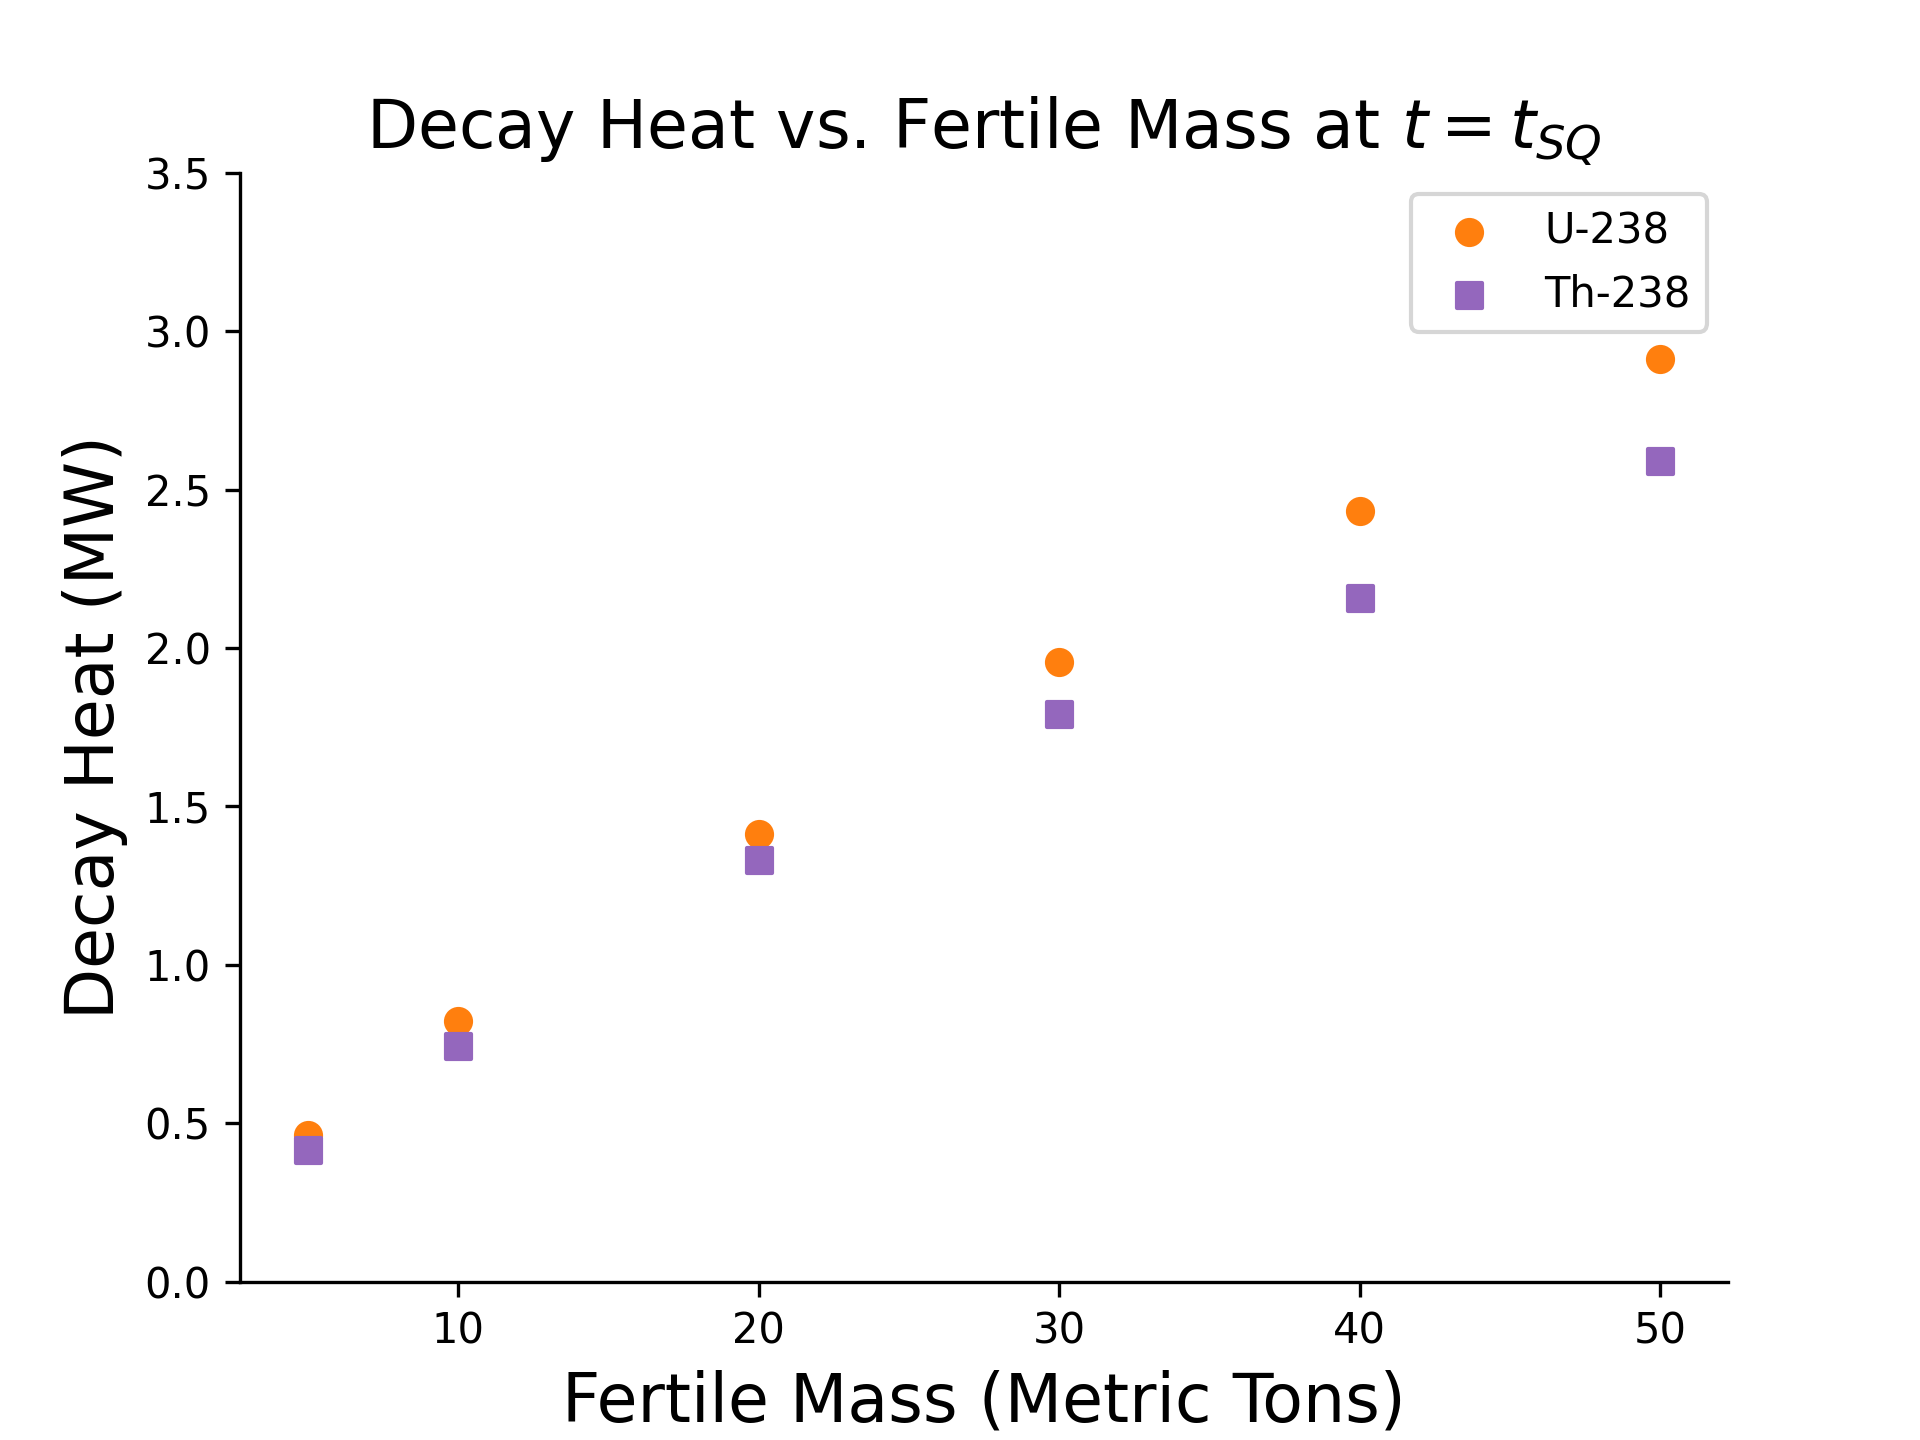
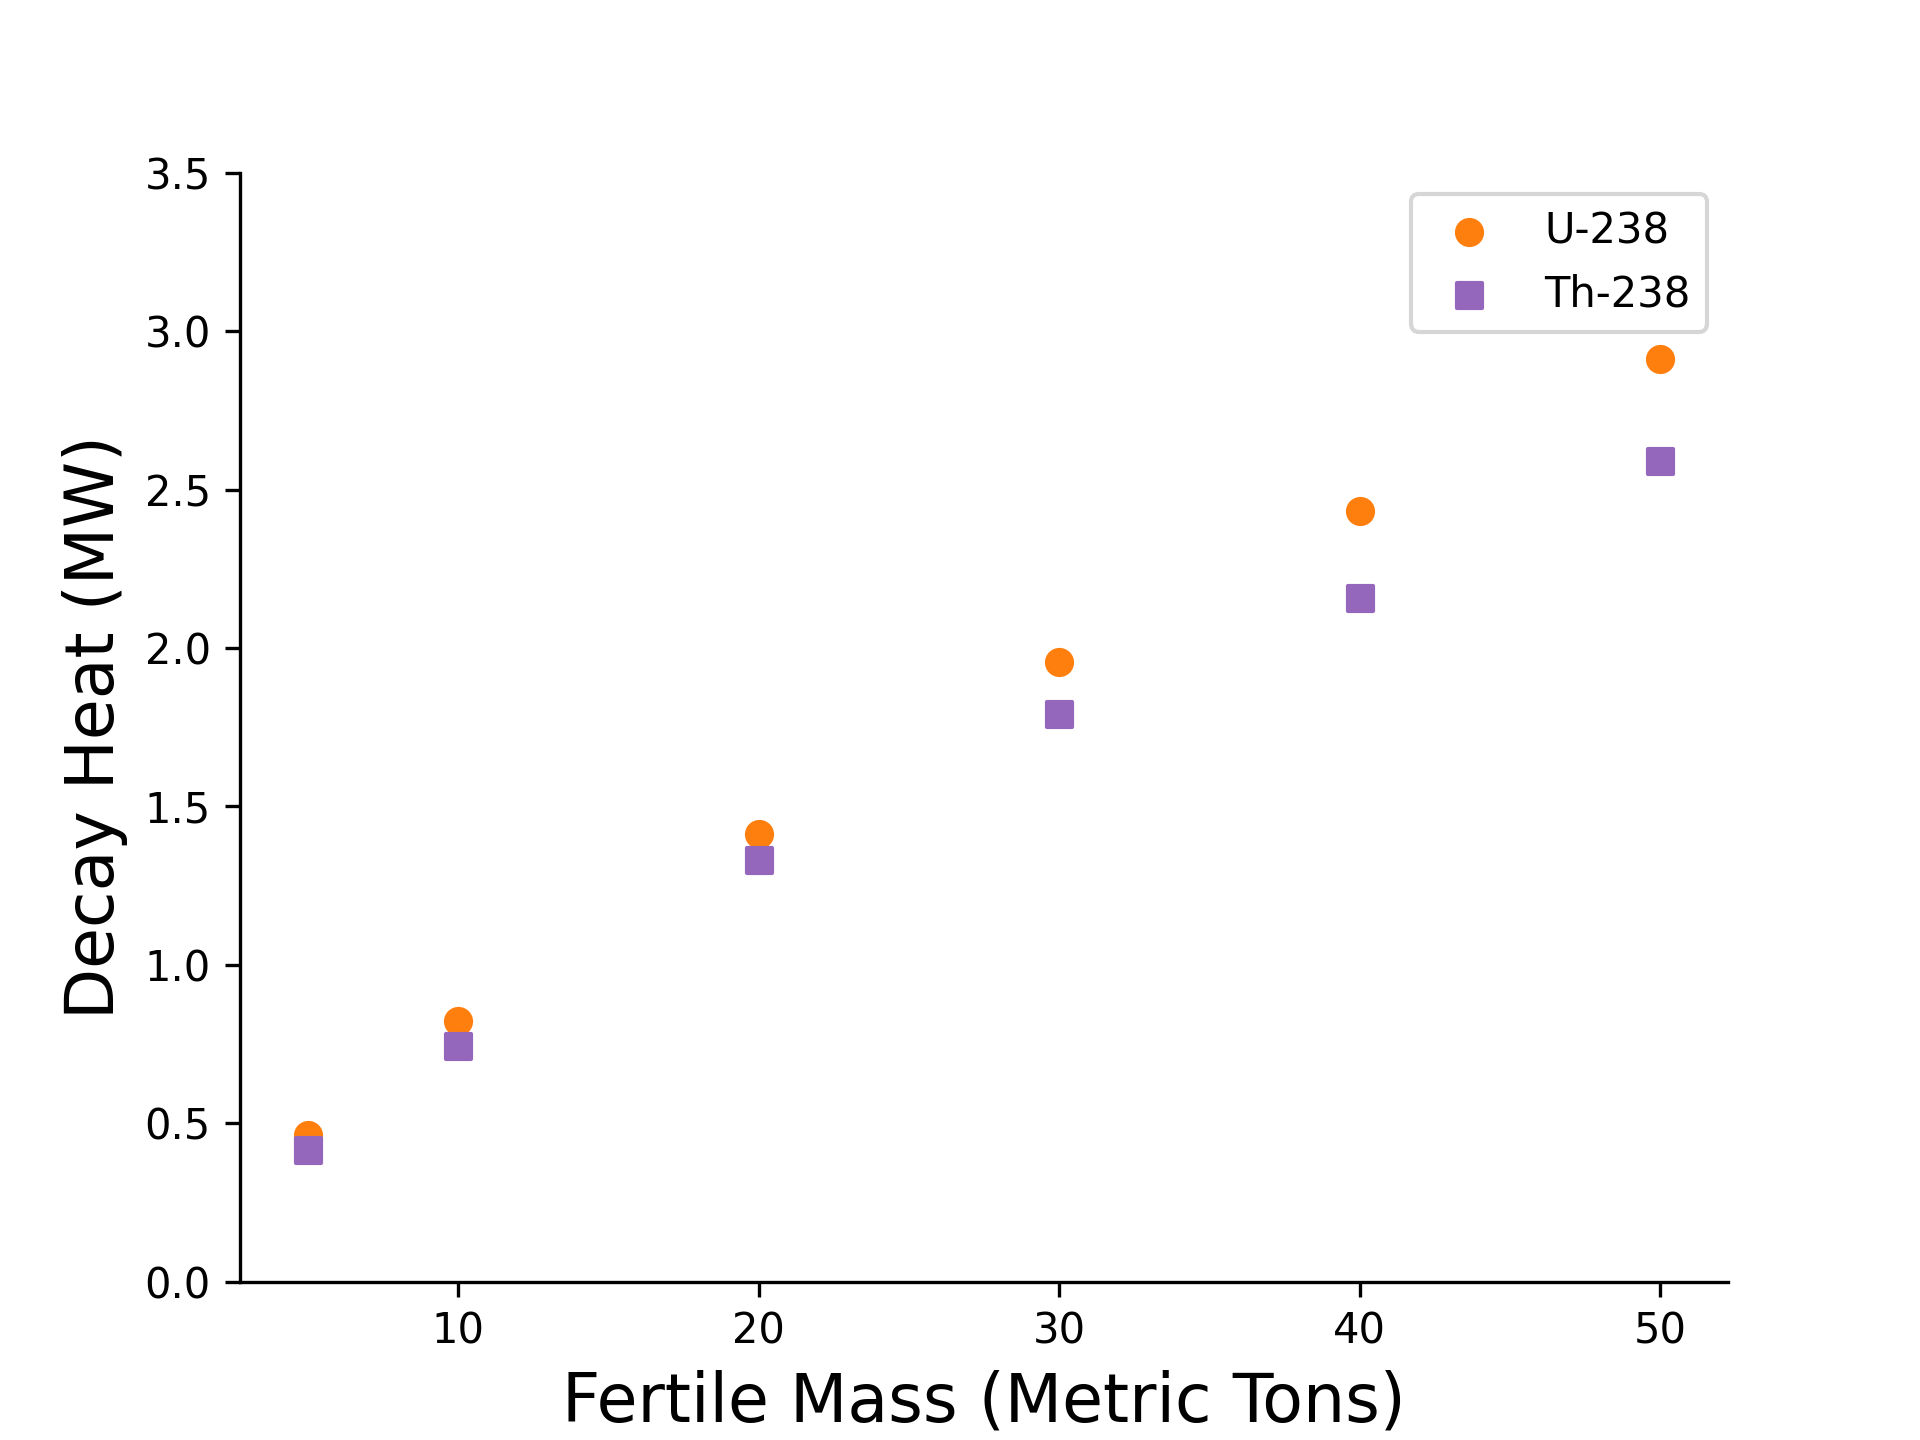
Plotting tweaks

Changed region(s): [[0.4688, 0.0625, 0.8438, 0.125], [0.1875, 0.0625, 0.4375, 0.125]]

diff --git a/openmc-scripts/arc-1/depletion_scan/pp-depletion-scan-arc-1.py b/openmc-scripts/arc-1/depletion_scan/pp-depletion-scan-arc-1.py
@@ -550,11 +550,12 @@ ax.set_ylim(10, np.max(Th_time_to_SQ/24) + 100)
 
 ax.set_yscale("log")
 
-ax.set_title("Time to Breed a Significant Quantity of Fissile Material", fontdict=fontdict)
+#ax.set_title("Time to Breed a Significant Quantity of Fissile Material", fontdict=fontdict)
 ax.set_ylabel("Time (days)", fontdict=fontdict)
 ax.set_xlabel("Mass of Fertile Material (metric tons)", fontdict=fontdict)
 
 fig.savefig("time_to_sq.png", dpi=dpi)
+fig.savefig("time_to_sq.pdf")
 
 # +~+~+~+~+~+~+~+~+~+~+~+~+~+~+~+~+~+~+~+~+~+~+~+~+~+~+
 # Fission Power
@@ -595,15 +596,12 @@ ax.annotate("t = 0", (masses[-1], Th_fission_powers[-1, 0]), color=th_color, tex
 ax.set_xlim(0, masses[-1] + 5)
 ax.set_ylim(0, U_fission_power_at_SQ[-1] + 10)
 
-ax.set_title("Fission Power in Doped FLiBe Blanket", fontdict=fontdict)
-ax.set_ylabel("Fission Power (MW)", fontdict=fontdict)
-ax.set_xlabel("Fertile Mass (metric tons)", fontdict=fontdict)
-
-ax.set_title("Fission Power in Doped FLiBe Blanket", fontdict=fontdict, y=title_y)
+#ax.set_title("Fission Power in Doped FLiBe Blanket", fontdict=fontdict)
 ax.set_ylabel("Fission Power (MW)", fontdict=fontdict)
 ax.set_xlabel("Fertile Mass (metric tons)", fontdict=fontdict)
 
 fig.savefig("fission_power.png", dpi=dpi)
+fig.savefig("fission_power.pdf")
 
 # +~+~+~+~+~+~+~+~+~+~+~+~+~+~+~+~+~+~+~+~+~+~+~+~+~+~+
 # Isotopic Purity
@@ -619,11 +617,12 @@ ax.set_ylim(99.5, 100)
 
 ax.legend()
 
-ax.set_title("Isotopic Purity vs. Fertile Inventory", fontdict=fontdict, y=title_y)
+#ax.set_title("Isotopic Purity vs. Fertile Inventory", fontdict=fontdict, y=title_y)
 ax.set_ylabel("Isotopic Purity (% fissile isotope)", fontdict=fontdict)
 ax.set_xlabel("Fertile Mass (metric tons)", fontdict=fontdict)
 
 fig.savefig("isotopic_purity.png", dpi=dpi)
+fig.savefig("isotopic_purity.pdf")
 
 # +~+~+~+~+~+~+~+~+~+~+~+~+~+~+~+~+~+~+~+~+~+~+~+~+~+~+
 # Flux Spectrum
@@ -788,11 +787,12 @@ ax.set_title("TBR vs. Fertile Mass at $t=0$", fontdict=fontdict)
 
 ax.legend()
 
-ax.set_title("TBR vs. Fertile Mass at $t=0$", fontdict=fontdict, y=title_y)
+#ax.set_title("TBR vs. Fertile Mass at $t=0$", fontdict=fontdict, y=title_y)
 ax.set_ylabel("TBR", fontdict=fontdict)
 ax.set_xlabel("Fertile Mass (metric tons)", fontdict=fontdict)
 
 fig.savefig("fertile_tbr.png", dpi=dpi)
+fig.savefig("fertile_tbr.pdf")
 
 # +~+~+~+~+~+~+~+~+~+~+~+~+~+~+~+~+~+~+~+~+~+~+~+~+~+~+
 # Fissile Mass
@@ -841,11 +841,12 @@ ax.scatter(masses, Th_decay_heats/1e6, label="Th-238", color=th_color, marker=th
 ax.set_ylim(0, 3.5)
 ax.legend()
 
-ax.set_title("Decay Heat vs. Fertile Mass at $t = t_{SQ}$", fontdict=fontdict)
+#ax.set_title("Decay Heat vs. Fertile Mass at $t = t_{SQ}$", fontdict=fontdict)
 ax.set_xlabel("Fertile Mass (Metric Tons)", fontdict=fontdict)
 ax.set_ylabel("Decay Heat (MW)", fontdict=fontdict)
 
 fig.savefig("decay_heat.png", dpi=dpi)
+fig.savefig("decay_heat.pdf")
 
 # +~+~+~+~+~+~+~+~+~+~+~+~+~+~+~+~+~+~+~+~+~+~+~+~+~+~+
 # U-232 Content of U-233
@@ -857,13 +858,14 @@ ax.spines["right"].set_color("None")
 
 ax.scatter(masses, U232_contents*1e6, color=th_color, marker=th_marker)
 
-ax.set_title("U-232 content in 1 SQ of U-233", fontdict=fontdict)
+#ax.set_title("U-232 content in 1 SQ of U-233", fontdict=fontdict)
 ax.set_xlabel("Fertile Mass (Metric Tons)", fontdict=fontdict)
 ax.set_ylabel("Concentration (appm)", fontdict=fontdict)
 
 ax.set_ylim(0, 1.05*np.max(U232_contents*1e6))
 
 fig.savefig("U232_content.png", dpi=dpi)
+fig.savefig("U232_content.pdf")
 
 # +~+~+~+~+~+~+~+~+~+~+~+~+~+~+~+~+~+~+~+~+~+~+~+~+~+~+
 # Contact Dose Rate
@@ -875,7 +877,7 @@ ax.spines["right"].set_color("None")
 ax.scatter(masses, U_dose_rates, color=u_color, marker=u_marker, label="U-238")
 ax.scatter(masses, Th_dose_rates, color=th_color, marker=th_marker, label="Th-232")
 
-ax.set_title("Contact Dose Rate vs. Fertile Mass at $t = t_{SQ}$", fontdict=fontdict)
+#ax.set_title("Contact Dose Rate vs. Fertile Mass at $t = t_{SQ}$", fontdict=fontdict)
 ax.set_xlabel("Fertile Mass (Metric Tons)", fontdict=fontdict)
 ax.set_ylabel("Dose Rate (Sv/hr)", fontdict=fontdict)
 
@@ -883,6 +885,7 @@ ax.legend()
 ax.set_ylim(0, 1.1*np.max(U_dose_rates))
 
 fig.savefig("contact_dose_rate.png", dpi=dpi)
+fig.savefig("contact_dose_rate.pdf")
 
 # ====================================================
 # Data Storage

diff --git a/arc_nonproliferation/postprocess.py b/arc_nonproliferation/postprocess.py
@@ -368,8 +368,16 @@ def extract_contact_dose_rate(material):
 
     air_mu_en_bin_centers = 0.5*(air_mu_en_bins[1:] + air_mu_en_bins[:-1])
 
-    decay_photon_dist = material.get_decay_photon_energy(units="Bq/g", clip_tolerance=1e-6)
-    binned_photon_dist = np.histogram(decay_photon_dist.x/1e6, bins=air_mu_en_bins, weights=decay_photon_dist.p)[0]
+    decay_photon_dist = material.get_decay_photon_energy(units="Bq/g")
+
+    try:
+        dist_x = decay_photon_dist.x
+        dist_p = decay_photon_dist.p
+    except:
+        dist_x = decay_photon_dist.distribution[1].x
+        dist_p = decay_photon_dist.distribution[1].p
+
+    binned_photon_dist = np.histogram(dist_x/1e6, bins=air_mu_en_bins, weights=dist_p)[0]
     binned_photon_dist = 1000 * binned_photon_dist #convert from Bq/g to Bq/kg
 
     mu_material = get_mass_attenuation(material, air_mu_en_bin_centers*1e6)

diff --git a/openmc-scripts/arc-1/independent_depletion/pp-independent-depletion-arc-1.py b/openmc-scripts/arc-1/independent_depletion/pp-independent-depletion-arc-1.py
@@ -214,11 +214,12 @@ ax.set_ylim(10, np.max(Th_time_to_SQ/24) + 100)
 
 ax.set_yscale("log")
 
-ax.set_title("Time to Breed a Significant Quantity of Fissile Material", fontsize=14)
+#ax.set_title("Time to Breed a Significant Quantity of Fissile Material", fontsize=14)
 ax.set_ylabel("Time (days)", fontsize=14)
 ax.set_xlabel("Mass of Fertile Material (metric tons)", fontsize=14)
 
 fig.savefig("time_to_sq.png", dpi=300)
+fig.savefig("time_to_sq.pdf", dpi=300)
 
 # +~+~+~+~+~+~+~+~+~+~+~+~+~+~+~+~+~+~+~+~+~+~+~+~+~+~+
 # Fissile Mass
@@ -262,7 +263,7 @@ for i, mass in enumerate(masses):
 
 ax_tot.set_xlabel("Time (days)")
 ax_tot.set_ylabel("Mass (kg)")
-ax_tot.set_title("Fissile Mass vs. Time")
+#ax_tot.set_title("Fissile Mass vs. Time")
 
 ax_tot.set_yscale("linear")
 
